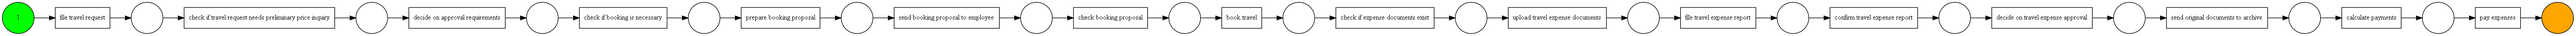
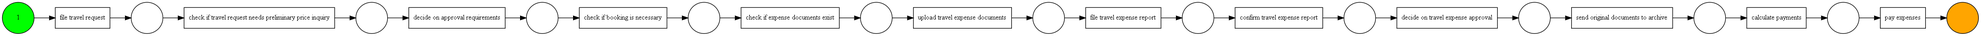
updated examples

diff --git a/example.py b/example.py
@@ -4,7 +4,6 @@ import os
 
 os.environ["PATH"] += os.pathsep + 'C:/Program Files/Graphviz/bin/'
 
-"""
 # aalst traces
 traces_aalst = [
     ["a", "b", "c", "d"],
@@ -30,9 +29,8 @@ traces_toyset = load_from_traces("data/Traces_Example.xlsx")
 net_toyset = run_alpha_plus_algorithm(traces_toyset, min_support=0.5, include_start_end=True, per_node=True, filter_full_trace=False)
 net_toyset.save('nets/toyset.png')
 
-"""
 # real life event log from travel data
-traces_filtered_dataset, activity_map_filtered_dataset = load_from_log("data/Travel_Data_complete.csv")
+traces_filtered_dataset, activity_map_filtered_dataset = load_from_log("data/Travel_Data_final.csv")
 
 # Infrequent per node (Happy Path), filter nodes only
 net_n_n = run_alpha_plus_algorithm(traces_filtered_dataset, min_support=0.9, include_start_end=True, per_node=True,
@@ -45,35 +43,35 @@ net_n_t = run_alpha_plus_algorithm(traces_filtered_dataset, min_support=0.9, inc
 net_n_t.save('nets/happypath_infrequent_per_node__filter_full_traces.png')
                                
 # Infrequent global (Happy Path), filter nodes only
-net_g_n = run_alpha_plus_algorithm(traces_filtered_dataset, min_support=0.30, include_start_end=True, per_node=False,
+net_g_n = run_alpha_plus_algorithm(traces_filtered_dataset, min_support=0.45, include_start_end=True, per_node=False,
                                filter_full_trace=False, activity_map=activity_map_filtered_dataset, detect_loops=True)
 net_g_n.save('nets/happypath_infrequent_global__filter_nodes_only.png')
                                
 # Infrequent global (Happy Path), filter full traces
-net_g_t = run_alpha_plus_algorithm(traces_filtered_dataset, min_support=0.30, include_start_end=True, per_node=False,
+net_g_t = run_alpha_plus_algorithm(traces_filtered_dataset, min_support=0.45, include_start_end=True, per_node=False,
                                filter_full_trace=True, activity_map=activity_map_filtered_dataset, detect_loops=True)
 net_g_t.save('nets/happypath_infrequent_global__filter_full_traces.png')
 
 # Infrequent per node (most_common), filter nodes only
 net_n_n_t2 = run_alpha_plus_algorithm(traces_filtered_dataset, min_support=0.2, include_start_end=True, per_node=True,
-                                      filter_full_trace=False, activity_map=None, detect_loops=True)
+                                      filter_full_trace=False, activity_map=activity_map_filtered_dataset, detect_loops=True)
 net_n_n_t2.save('nets/threshold_0.2_infrequent_per_node__filter_nodes_only.png')
 
 # Infrequent per node (most_common), filter full trace
 net_n_t_t2 = run_alpha_plus_algorithm(traces_filtered_dataset, min_support=0.2, include_start_end=True, per_node=True,
-                                      filter_full_trace=True, activity_map=None, detect_loops=True)
+                                      filter_full_trace=True, activity_map=activity_map_filtered_dataset, detect_loops=True)
 net_n_t_t2.save('nets/threshold_0.2_infrequent_per_node__filter_full_trace.png')
 
 # Infrequent global (most_common), filter nodes only
 net_g_n_t1 = run_alpha_plus_algorithm(traces_filtered_dataset, min_support=0.1, include_start_end=True, per_node=False,
-                                      filter_full_trace=False, activity_map=None, detect_loops=True)
+                                      filter_full_trace=False, activity_map=activity_map_filtered_dataset, detect_loops=True)
 net_g_n_t1.save('nets/threshold_0.1_infrequent_global__filter_nodes_only.png')
 
 # Infrequent global (most_common), filter full trace
 net_g_t_t1 = run_alpha_plus_algorithm(traces_filtered_dataset, min_support=0.1, include_start_end=True, per_node=False,
-                                      filter_full_trace=True, activity_map=None, detect_loops=True)
+                                      filter_full_trace=True, activity_map=activity_map_filtered_dataset, detect_loops=True)
 net_g_t_t1.save('nets/threshold_0.1_infrequent_global__filter_full_trace.png')
 
 # No filtering
-net_g_t_all = run_alpha_plus_algorithm(traces_filtered_dataset, min_support=None, activity_map=None, detect_loops=True)
-net_g_t_all.save('nets/no_filtering.png')
+net_all = run_alpha_plus_algorithm(traces_filtered_dataset, min_support=None, activity_map=activity_map_filtered_dataset, detect_loops=True)
+net_all.save('nets/no_filtering.png')

diff --git a/alpha_extended_algorithm.py b/alpha_extended_algorithm.py
@@ -371,7 +371,6 @@ def filter_traces(traces, min_support=None, include_start_end=True, per_node=Fal
 
     return_traces = copy.deepcopy(traces)
     n_traces = len(return_traces)
-    min_amount = round(min_support*n_traces)
     all_activities = set([activity for trace in traces for activity in trace])
 
     if include_start_end:
@@ -403,6 +402,7 @@ def filter_traces(traces, min_support=None, include_start_end=True, per_node=Fal
                 if count < min_amount:
                     invalid_successions.append((node, successor))
     else:
+        min_amount = round(min_support * n_traces)
         possible_successions = [(x, y) for x in all_activities for y in all_activities]
         succession_counter = {x: 0 for x in possible_successions}
         for trace in traces:
